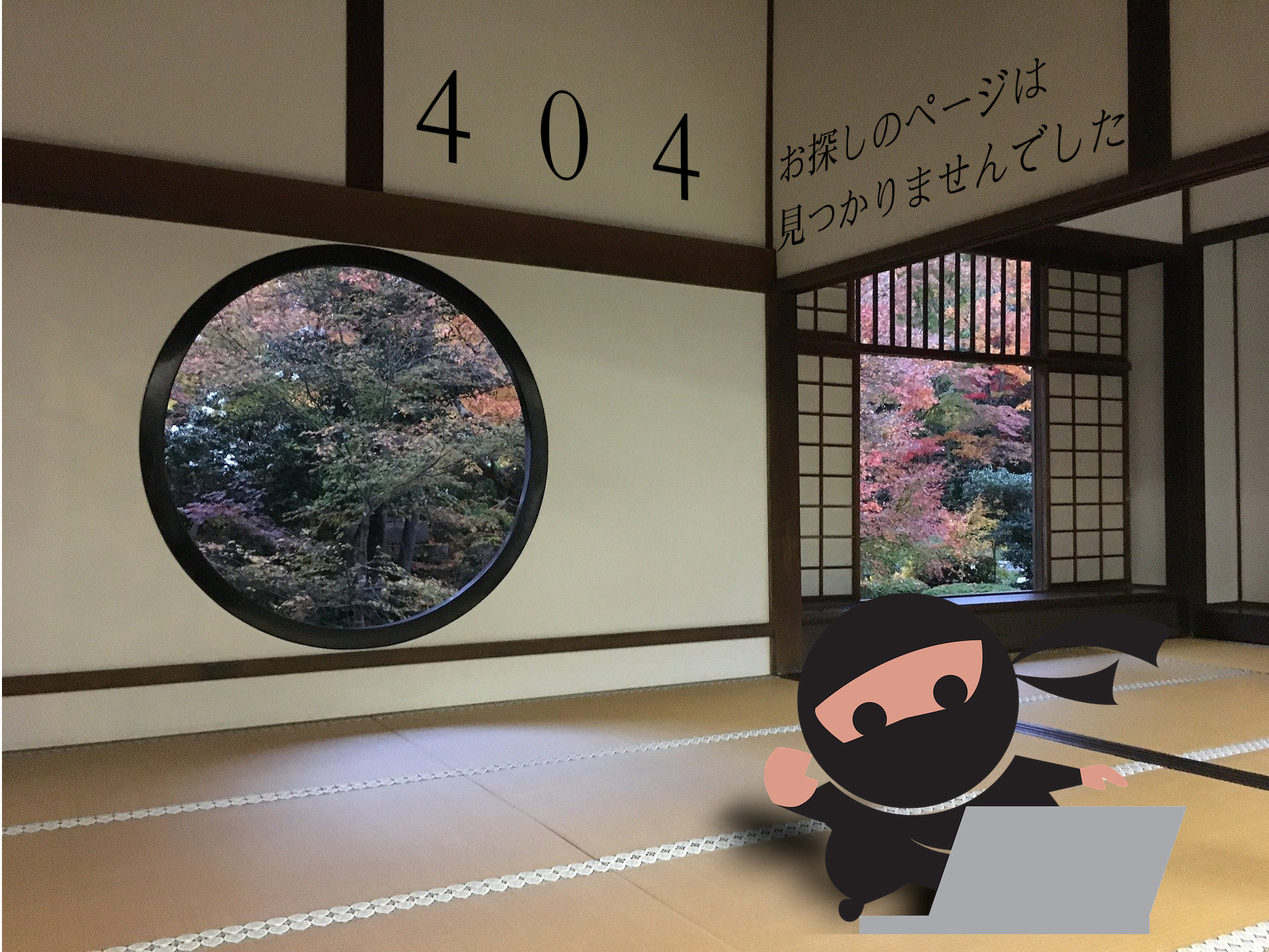
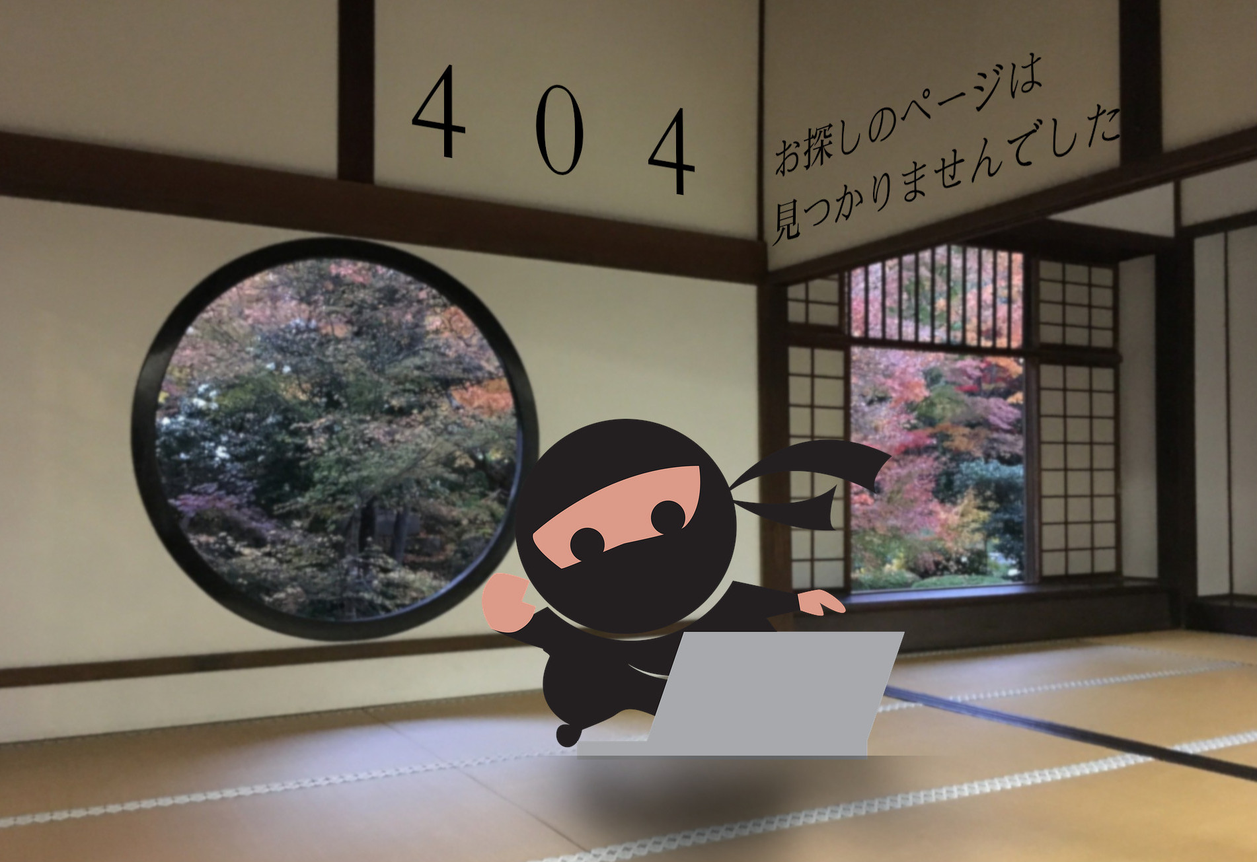
エラーページ作成

diff --git a/ranking_app/ranking/static/ranking/shared/footer.scss b/ranking_app/ranking/static/ranking/shared/footer.scss
@@ -4,6 +4,7 @@
   padding: 8px 0 8px 30px;
   opacity: 0.8;
   height: 15px;
+  z-index: 1;
   &__small {
     font-size: 12px;
     font-family: "Sawarabi Mincho";

diff --git a/ranking_app/ranking/static/ranking/shared/style.scss b/ranking_app/ranking/static/ranking/shared/style.scss
@@ -5,3 +5,4 @@
 @import "ranking/modules/toppage";
 @import "ranking/modules/detail";
 @import "ranking/modules/category";
+@import "ranking/modules/404";

diff --git a/ranking_app/ranking/static/ranking/modules/404.scss b/ranking_app/ranking/static/ranking/modules/404.scss
@@ -1,0 +1,8 @@
+.error {
+  img {
+  position: fixed;
+  height: 90vh;
+  width: 100%;
+  z-index: 2;
+  }
+}
